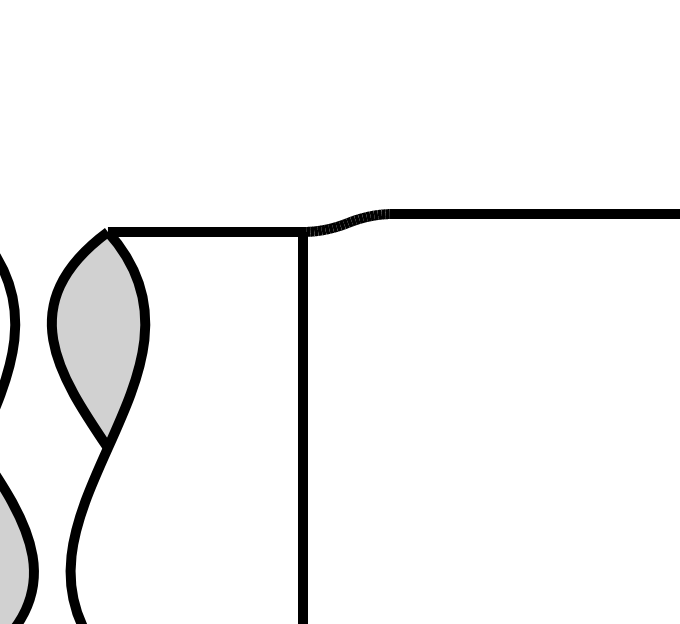
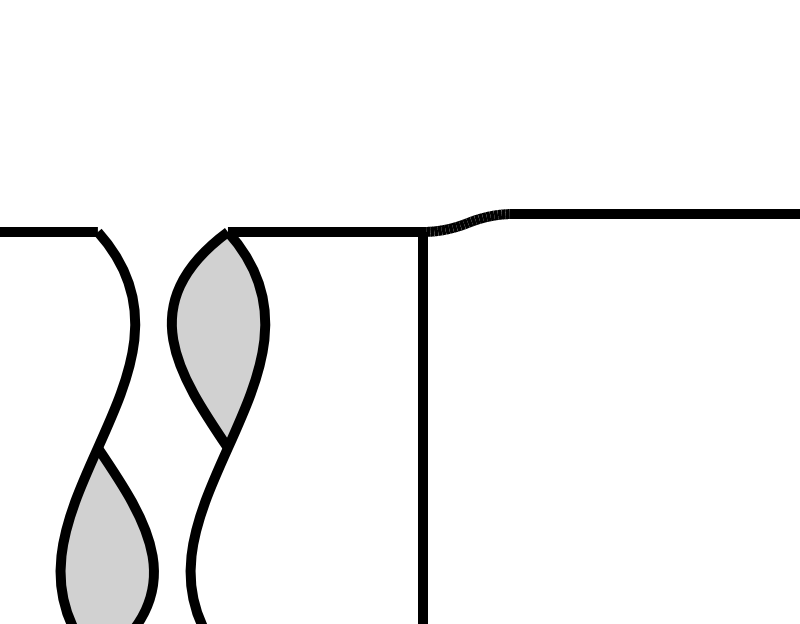
docs: drift sweep after the bug batch; manual chapters, Help and contracts aligned; bolt/S-break crops re-aimed
Every doc sentence the batch made stale is corrected (new-drawing unit,
taper-rate forms, label unification, filename scheme, bounds-warning unit,
bolt-row windows as the third S-break avoid source), plus pre-existing drift
found on the way (STYLE_GUIDE's per-keystroke OAL, the footer's taper-rate
row). The two feature crops that the bolt-row pin moved out of frame are
re-cut so the hidden bore and the whole S-break pair are in view.

Changed region(s): [[0.0, 0.3654, 0.3397, 1.0], [0.4324, 0.3349, 0.6485, 1.0]]

diff --git a/docs/manual/src/03-components.html b/docs/manual/src/03-components.html
@@ -40,7 +40,7 @@
       <tr><td><span class="ui">Length</span></td><td>Axial length of the taper. On a FWD-measured taper, a length change keeps the FWD end where it was and the taper grows toward AFT.</td></tr>
       <tr><td><span class="ui">S.E.T. Ø</span>, <span class="ui">L.E.T. Ø</span></td><td>Small-end and large-end diameters. On the card the two fields are listed in shaft order, AFT end first, so an aft-half taper shows S.E.T. then L.E.T., and a forward-half taper shows L.E.T. then S.E.T.</td></tr>
       <tr><td><span class="ui">Rate mode:</span> <span class="ui">Auto</span> | <span class="ui">Manual</span></td><td>Auto works the rate out from Length, S.E.T. and L.E.T. Manual lets you type it. Default Auto.</td></tr>
-      <tr><td><span class="ui">Rate (1:12, 3/4"/ft, or decimal)</span></td><td>The taper rate: a ratio (1:12), inches per foot (3/4"/ft — the shop's 1:16) or a decimal; a bare fraction like 3/4 is refused as ambiguous and the message names the forms to write. Greyed out in Auto, where it shows the computed rate. Editable in Manual.</td></tr>
+      <tr><td><span class="ui">Rate (1:12, 3/4"/ft, or decimal)</span></td><td>The taper rate: a ratio (1:12), inches per foot (3/4″/ft — the shop's 1:16; “3/4 in/ft” and “3/4/ft” are read the same way) or a decimal; a bare fraction like 3/4 is refused as ambiguous and the message names the forms to write. Greyed out in Auto, where it shows the computed rate. Editable in Manual.</td></tr>
       <tr><td><span class="ui">Keyway</span> checkbox and section</td><td>See <a href="#components-keyways">Keyways</a>.</td></tr>
     </tbody>
   </table>
@@ -52,7 +52,7 @@
     <li><strong>Manual</strong> keeps exactly what you type. If the typed rate disagrees with the three dimensions by more than 3%, the card shows <span class="ui">Rate does not match Length + SET + LET</span>. Nothing is changed; you decide which number is wrong.</li>
     <li>A plain whole number is read as 1:N, so “16” means 1:16. A bare “1” is refused as ambiguous.</li>
   </ul>
-  <aside class="warn"><p>Type rates as a ratio (“1:16”). A fraction such as “3/4” is read as a diameter change per unit of length, not as 3/4″ per foot, and gives a very steep taper. The shop notation 3/4″/ft is 1:16; 1″/ft is 1:12.</p></aside>
+  <aside class="warn"><p>Type rates as a ratio (“1:16”) or as inches per foot with the “/ft” written out (“3/4″/ft”). A bare fraction such as “3/4” is refused — it could mean 3/4″ per foot or a diameter change of 0.75 per unit of length, a very steep taper — and the card says <span class="ui">Write 3/4"/ft or a ratio like 1:16; a bare fraction is ambiguous</span>. The shop notation 3/4″/ft is 1:16; 1″/ft is 1:12.</p></aside>
 
   <h3>Adding a taper from S.E.T. and rate</h3>
   <ol class="steps">
@@ -185,7 +185,7 @@
       <tr><td><span class="ui">Explicit body</span> checkbox</td><td>Ticked on every explicit body. Unticking asks <span class="ui">Make body automatic?</span> and, on <span class="ui">Make automatic</span>, hands the span back to the auto fill (its keyway goes with it).</td></tr>
       <tr><td><span class="ui">Start</span></td><td>Distance from the AFT end of the shaft. Bodies have no Measure From chip.</td></tr>
       <tr><td><span class="ui">Length</span></td><td>Axial length.</td></tr>
-      <tr><td><span class="ui">Ø</span> (dialog: <span class="ui">Diameter</span>)</td><td>The body diameter.</td></tr>
+      <tr><td><span class="ui">Diameter</span></td><td>The body diameter.</td></tr>
       <tr><td><span class="ui">Face finish</span></td><td>Square or Blend at each end; see below.</td></tr>
       <tr><td><span class="ui">Seal areas</span></td><td>Grooved fiberglass seat areas at either end; see below.</td></tr>
       <tr><td><span class="ui">Keyway</span> checkbox and section</td><td>See <a href="#components-keyways">Keyways</a>.</td></tr>
@@ -195,7 +195,7 @@
   <aside class="note"><p>A body may run under a liner or up against a taper, and a body with a keyway is never split; see <a href="#editor-bodies">Bodies and bare shaft</a>.</p></aside>
 
   <h3>Bare-shaft card</h3>
-  <p>A bare-shaft card is titled <span class="ui">Body (auto)</span>. <span class="ui">Start</span> and <span class="ui">Length</span> are greyed out because the surrounding components decide them. <span class="ui">Ø</span> is editable and sets the diameter of that one stretch of bare shaft only. The card also carries <span class="ui">Show bare-shaft Ø on drawing</span>, the same <span class="ui">Face finish</span> and <span class="ui">Seal areas</span> controls as an explicit body, and the <span class="ui">Explicit body</span> checkbox that promotes it.</p>
+  <p>A bare-shaft card is titled <span class="ui">Body (auto)</span>. <span class="ui">Start</span> and <span class="ui">Length</span> are greyed out because the surrounding components decide them. <span class="ui">Diameter</span> is editable and sets the diameter of that one stretch of bare shaft only. The card also carries <span class="ui">Show bare-shaft Ø on drawing</span>, the same <span class="ui">Face finish</span> and <span class="ui">Seal areas</span> controls as an explicit body, and the <span class="ui">Explicit body</span> checkbox that promotes it.</p>
   <aside class="note"><p>Blends and seal areas set on an auto section belong to that stretch of bare shaft and follow it when the components around it move. Promoting the section starts the new explicit body with square faces and no seal areas; set them again on its card.</p></aside>
 
   <h3 id="components-blends">Face finish: Square or Blend</h3>
@@ -346,20 +346,22 @@
       <tr><td><span class="ui">Spacing</span></td><td>Shown when Count is more than 1: center-to-center distance between holes.</td></tr>
       <tr><td><span class="ui">Through hole</span> switch</td><td>On (default): a through hole. Off: a blind hole.</td></tr>
       <tr><td><span class="ui">Depth</span></td><td>Shown when the hole is blind: drill depth.</td></tr>
+      <tr><td><span class="ui">Show dimension rail</span> switch</td><td>Card only, off by default. On, the schematic and consolidated sheets print one dimension for the row: from the end of the shaft it is measured from to the center of the nearest hole, carrying the distance you entered. See <a href="#components-drawing-toggles">Per-component drawing switches</a>.</td></tr>
     </tbody>
   </table>
   <p>The Add dialog checks that every hole fits on the shaft and shows <span class="ui">Row extends past the AFT end of the shaft</span> or <span class="ui">Row extends past the end of the shaft</span> if one would not.</p>
 
   <h3>What prints for a bolt slot or hole</h3>
   <ul>
-    <li><strong>Seam</strong>: a circle at each hole position, straddling the shaft outline top and bottom. A seam row prints no numbers on the schematic.</li>
+    <li><strong>Seam</strong>: a circle at each hole position, straddling the shaft outline top and bottom. A seam row prints no footer line; the only number it can print is the rail dimension its <span class="ui">Show dimension rail</span> switch turns on.</li>
+    <li><strong>Either style</strong>: the row is never shortened on paper. Its holes keep their true spacing even inside a body that is compressed around them, and the body's S-break is placed clear of the row.</li>
     <li><strong>Cross-drilled, 90° from keyway</strong>: the bore drawn as hidden lines, two dashed walls one hole width apart running down from the top of the shaft, all the way through or, for a blind hole, to the drill depth with a dashed bottom.</li>
     <li><strong>Cross-drilled, in line with keyway</strong>: one circle on the shaft centerline at the hole position.</li>
     <li><strong>Cross-drilled footer lines</strong>, in the column of the end it was measured from: “Bolt hole: Ø &lt;dia&gt;” (with “× &lt;count&gt;” for more than one), “Hole center from FWD:” or “Hole center from AFT:” with the distance (and “@ &lt;spacing&gt;” for more than one), and, when the shaft has a keyway, “90° from keyway” or “In line with keyway”.</li>
   </ul>
   <figure class="detail">
-    <img src="figures/feature-bolt-holes.png" alt="Close-up of the schematic showing circles straddling the shaft outline for seam bolt slots, and dashed parallel lines through the shaft for a cross-drilled hole.">
-    <figcaption>Seam bolt slots straddle the outline; a cross-drilled hole clocked 90° from the keyway draws as a hidden bore.</figcaption>
+    <img src="figures/feature-bolt-holes.png" alt="Close-up of the coupling end of the schematic: two dashed lines through the shaft for a cross-drilled hole, then a row of three circles straddling the top outline with the matching row on the bottom outline.">
+    <figcaption>A cross-drilled hole clocked 90° from the keyway draws as a hidden bore (the two dashed lines); a seam bolt row draws as circles straddling the outline, one per bolt at its spacing.</figcaption>
   </figure>
   <aside class="shop"><p>The hole-center distance in the footer is measured from the shaft end named on the line to the center of the hole. On the runout sheet's coupling end view, the bolt count comes from the first seam row; a cross-drilled hole is not a flange bolt and is not counted there.</p></aside>
 
@@ -374,6 +376,7 @@
       <tr><td><span class="ui">Show name on drawing</span></td><td>Explicit bodies, tapers, threads, liners</td><td>Follows <span class="ui">Show component titles in PDF</span></td></tr>
       <tr><td><span class="ui">Compress on drawing</span></td><td>Explicit bodies</td><td>Off for new bodies</td></tr>
       <tr><td><span class="ui">Prints in:</span> <span class="ui">in</span> | <span class="ui">mm</span></td><td>Explicit bodies, tapers, threads, liners</td><td>The document unit</td></tr>
+      <tr><td><span class="ui">Show dimension rail</span></td><td>Coupler bolt slots and holes</td><td>Off</td></tr>
     </tbody>
   </table>
 
@@ -406,6 +409,7 @@
   <h3 id="components-prints-in">Prints in: in | mm</h3>
   <p>Prints this one component's values in a different unit from the document. It appears at the foot of the card only when <span class="path">Settings → Drawing → Per-component units</span> is on. It changes how the component prints, not how you type it: the card's fields stay in the document unit. Tapping the document's own unit clears the choice.</p>
   <p>A keyway has its own <span class="ui">Keyway in:</span> chip, which does change the unit you type the keyway in, because a metric keyway on an inch shaft should be entered in millimeters. That chip is in the Add dialogs as well as on the cards. A metric thread prints in millimeters without any chip.</p>
+  <p><span class="ui">Show dimension rail</span> is on coupler bolt slot and hole cards only. Off, the row prints no dimension; on, the schematic and consolidated sheets add one dimension rail from the end of the shaft the row is measured from (<span class="ui">Measure From</span>) to the center of the nearest hole, carrying the distance you entered. It changes nothing about the row itself, which is why it is not in the Add dialog. See <a href="#reading-bolts">Coupler bolt holes</a>.</p>
 
   <h2 id="components-names">Component names</h2>
   <p>Every taper, thread, liner and explicit body has a name. Until you give it one, the app names it by position:</p>

diff --git a/docs/manual/src/04-documents.html b/docs/manual/src/04-documents.html
@@ -268,23 +268,23 @@
   <aside class="note"><p>If something goes wrong while the sheet is being drawn, the app still writes a valid PDF that shows a “PDF export failed” page instead of a damaged or empty file. Re-export after fixing the cause.</p></aside>
 
   <h3>File names</h3>
-  <p>The suggested name is built from the job information (Customer, Vessel, Job #) and the shaft side. A side of PORT, STBD or CENTER is added; Other adds nothing. Blank job fields are skipped.</p>
+  <p>Every document's name starts from the same base as the saved job: Job #, Customer and Vessel joined by “ - ”, then the shaft side. A side of PORT, STBD or CENTER is added; Other adds nothing. Blank job fields are skipped, and a character a file name cannot hold (such as / or :) becomes an underscore. Each document then adds its own ending.</p>
   <table class="ref">
     <thead><tr><th>Document</th><th>Suggested filename (example: Job 814201, NorthSound Marine, FV Tern Point, PORT)</th></tr></thead>
     <tbody>
-      <tr><td>Schematic (Schematic tab)</td><td>814201 - NorthSound Marine - FV Tern Point - PORT.pdf<br>No job information at all: Shaft_&lt;date&gt;_&lt;time&gt;.pdf</td></tr>
+      <tr><td>Schematic (Schematic tab, and the same file from <span class="ui">Export all</span>)</td><td>814201 - NorthSound Marine - FV Tern Point - PORT_schematic.pdf</td></tr>
+      <tr><td>Runout Sheet</td><td>…PORT_runout.pdf</td></tr>
+      <tr><td>Wear Document</td><td>…PORT_wear.pdf</td></tr>
+      <tr><td>Undercut Drawing</td><td>…PORT_undercuts.pdf</td></tr>
+      <tr><td>Consolidated Sheet</td><td>…PORT_consolidated.pdf</td></tr>
       <tr><td>Final schematic</td><td>…PORT_Final.pdf</td></tr>
       <tr><td>Final schematic with Runout bubbles</td><td>…PORT_Final_Runout.pdf</td></tr>
       <tr><td>Final runout sheet (Final banner)</td><td>…PORT_Final_RunoutSheet.pdf</td></tr>
-      <tr><td>Runout Sheet</td><td>NorthSound Marine_FV Tern Point_814201_PORT_runout.pdf</td></tr>
-      <tr><td>Wear Document</td><td>…_PORT_wear.pdf</td></tr>
-      <tr><td>Undercut Drawing</td><td>…_PORT_undercuts.pdf</td></tr>
-      <tr><td>Consolidated Sheet</td><td>…_PORT_consolidated.pdf</td></tr>
-      <tr><td>Schematic written by <span class="ui">Export all</span></td><td>…_PORT_schematic.pdf</td></tr>
-      <tr><td>Any blank draft</td><td>adds _BlankDraft at the end, for example …_Final_BlankDraft.pdf</td></tr>
+      <tr><td>Any blank draft</td><td>adds _BlankDraft at the end, for example …PORT_runout_BlankDraft.pdf</td></tr>
+      <tr><td>No job information at all</td><td>Shaft_schematic.pdf, Shaft_runout.pdf and so on; the Final documents use Shaft_&lt;date&gt;_&lt;time&gt;_Final.pdf</td></tr>
     </tbody>
   </table>
-  <p>The three Final names are deliberately different, so the welding copy, the pre-ship measurement sheet and the blank final runout sheet never overwrite each other. The side is part of every name, so the PORT and STBD shafts of a twin-screw job don't overwrite each other either.</p>
+  <p>The schematic gets the same name whether it is exported from its own tab or by <span class="ui">Export all</span>. The three Final names are deliberately different, so the welding copy, the pre-ship measurement sheet and the blank final runout sheet never overwrite each other. The side is part of every name, so the PORT and STBD shafts of a twin-screw job don't overwrite each other either.</p>
 
   <h3 id="documents-blocked">Why Print and Export are greyed out</h3>
   <p>Printing and exporting are blocked until the drawing can be trusted. The tab shows the reason in red above the buttons. On the Schematic tab, tapping the greyed <span class="ui">PDF preview</span> icon shows it as a message.</p>
@@ -354,7 +354,7 @@
   <ul>
     <li><strong>Bare shaft always compresses.</strong> Auto (bare-shaft) sections are what gives up length first.</li>
     <li><strong>Explicit bodies start uncompressed.</strong> A body you add draws at true proportion, with no S-break. To let a very long explicit body compress, tick <span class="ui">Compress on drawing</span> on its card (see <a href="#components-compress">Compress on drawing</a>). Bodies in older saved jobs keep compressing until you untick it.</li>
-    <li><strong>Keyways stay true size.</strong> The stretch of a body around its keyway never shortens, and the break is placed clear of it. The keyway's width scales with the drawn height, so it stays in proportion at any height.</li>
+    <li><strong>Keyways and bolt rows stay true size.</strong> The stretch of a body around its keyway, or around a row of coupler bolt holes, never shortens, and the break is placed clear of it. The keyway's width scales with the drawn height, so it stays in proportion at any height; the bolt holes keep their true spacing.</li>
   </ul>
 
   <h3>Liners and tapers keep their proportions</h3>

diff --git a/docs/manual/src/02-editor.html b/docs/manual/src/02-editor.html
@@ -24,7 +24,7 @@
   <ol class="steps">
     <li>Tap <span class="ui">New Drawing</span>.</li>
     <li>Tap <span class="ui">Project information</span> on the toolbar and fill in the job details.</li>
-    <li>Check the unit (inches for a new drawing; see <a href="#editor-units">Units for the job</a>).</li>
+    <li>Check the unit (a new drawing takes the one set under <span class="path">Settings → Units</span>; see <a href="#editor-units">Units for the job</a>).</li>
     <li>Type the <span class="ui">Overall Length</span> and tap the green ✓.</li>
     <li>Add the components with <span class="ui">+ Add Component</span>, AFT end first is easiest.</li>
     <li>Tap <span class="ui">Save</span> and confirm the suggested name.</li>
@@ -52,7 +52,7 @@
   <p>Unsaved drafts on the home screen are listed by the name the job would be saved under, so three drafts are told apart by job, not just by age. A draft with no project information shows as <span class="ui">Untitled draft</span>.</p>
 
   <h3 id="editor-units">Units for the job</h3>
-  <p>A new drawing starts in inches. To draw in millimeters, open <span class="path">Settings → Units</span> and choose <span class="ui">Millimeters</span>. The job remembers its unit, so it reopens the way it was drawn. Inch fields accept fractions: type “3 1/2” or “150 3/4”.</p>
+  <p>A new drawing starts in the unit chosen under <span class="path">Settings → Units</span> (<span class="ui">Millimeters</span> or <span class="ui">Inches</span>), so set it once for the shop and every new drawing follows it. The job remembers its unit from then on: it reopens the way it was drawn, and changing the setting later never flips an open or saved job. While a job is open, the same chips switch how it is shown and typed. Inch fields accept fractions: type “3 1/2” or “150 3/4”.</p>
   <p>Switching units never changes a dimension (see <a href="#intro-units">Millimeters and inches</a>). To print one component in the other unit (a metric thread on an inch shaft), see <a href="#components-prints-in">Prints in: in | mm</a>.</p>
 
   <h2 id="editor-oal">The overall length</h2>
@@ -160,7 +160,7 @@
   <p>Every stretch of the shaft you have not covered with a component is drawn as bare shaft, so the drawing is always one continuous piece. Bare shaft is filled in automatically and shows in the carousel as a <span class="ui">Body (auto)</span> card. You never need to add bodies just to join components together.</p>
 
   <h3>Setting a bare-shaft diameter</h3>
-  <p>On a <span class="ui">Body (auto)</span> card, <span class="ui">Start</span> and <span class="ui">Length</span> are greyed: they come from the components on either side. The <span class="ui">Ø</span> field is live. Type a diameter to set that section of bare shaft. Each section takes its own diameter, so a shaft can step between liners without a single explicit body. Clear the field, or enter 0, to let that section take its diameter from its neighbors again.</p>
+  <p>On a <span class="ui">Body (auto)</span> card, <span class="ui">Start</span> and <span class="ui">Length</span> are greyed: they come from the components on either side. The <span class="ui">Diameter</span> field is live. Type a diameter to set that section of bare shaft. Each section takes its own diameter, so a shaft can step between liners without a single explicit body. Clear the field, or enter 0, to let that section take its diameter from its neighbors again.</p>
   <p>If two sections with different diameters are joined (because the component between them was deleted), the joined section takes the AFT section's diameter. The FWD section's diameter is kept in reserve and comes back if the two are split again.</p>
   <p>The auto card also carries <span class="ui">Show bare-shaft Ø on drawing</span> (one switch for all bare shaft) and the face finish and seal area controls; see <a href="#components-bodies">Bodies</a>.</p>
 

diff --git a/docs/manual/src/05-reading.html b/docs/manual/src/05-reading.html
@@ -84,6 +84,7 @@
     <li><strong>The rails below carry the liners and the end tapers.</strong> Each end taper gets its length. Each liner gets two dimensions: a datum dimension locating it, and its length (see the next section).</li>
     <li><strong>Shorter dimensions sit lower.</strong> A dimension that sits inside a longer one takes the rail below it. On the tailshaft, the 14″ AFT taper sits under the 22″ datum that contains it, and the 22″ sits under the OAL.</li>
     <li><strong>Bodies and bare shaft carry no rail dimension.</strong> Their length is whatever the liners and tapers leave between them.</li>
+    <li><strong>A coupler bolt row can add one.</strong> When the row's card has <span class="ui">Show dimension rail</span> on, a rail runs from the end of the shaft the row is measured from to the center of its nearest hole, carrying the entered distance. Off, the usual case, the row prints no dimension.</li>
   </ul>
   <p>How a dimension is drawn:</p>
   <ul>
@@ -124,7 +125,7 @@
     <thead><tr><th>Line</th><th>What it means</th></tr></thead>
     <tbody>
       <tr><td>“AFT Taper” / “FWD Taper”</td><td>Column heading. A shaft end without a taper has no heading.</td></tr>
-      <tr><td>“Rate:”</td><td>The taper. A 1:12 taper prints as “1″/ft” and a 1:16 taper as “3/4″/ft”; any other taper prints as a ratio.</td></tr>
+      <tr><td>“Rate:”</td><td>The taper. On inch sheets a 1:12 taper prints as “1″/ft” and a 1:16 taper as “3/4″/ft”; any other rate prints as it was typed (a taper left in Auto prints its computed ratio).</td></tr>
       <tr><td>“L.E.T.:”</td><td>Diameter at the large end of the taper.</td></tr>
       <tr><td>“S.E.T.:”</td><td>Diameter at the small end of the taper.</td></tr>
       <tr><td>“Length:”</td><td>Taper length.</td></tr>
@@ -227,8 +228,8 @@
 
   <h3 id="reading-bolts">Coupler bolt holes</h3>
   <figure class="detail">
-    <img src="figures/feature-bolt-holes.png" alt="Close-up of the coupling end: two dashed vertical lines across the shaft, and a row of three circles straddling the top outline and three straddling the bottom outline.">
-    <figcaption>A cross-drilled hole drawn hidden (the two dashed lines) and a seam bolt row (the circles on the outline).</figcaption>
+    <img src="figures/feature-bolt-holes.png" alt="Close-up of the coupling end: two dashed vertical lines across the shaft, then a row of three circles straddling the top outline and three straddling the bottom outline.">
+    <figcaption>A cross-drilled hole drawn hidden (the two dashed lines) and, FWD of it, a seam bolt row (the circles on the outline, one per bolt).</figcaption>
   </figure>
   <dl class="terms">
     <dt>Seam holes (muff coupling)</dt>

diff --git a/docs/manual/src/01-intro.html b/docs/manual/src/01-intro.html
@@ -69,7 +69,7 @@
   <p>A value you type into a component is kept <strong>exactly as entered</strong>. The app never rounds it, snaps it to a neighboring edge, or “corrects” it — not even by a thousandth. If you type 14.062″, the sheet prints 14.062″. What moves to make room is the bare shaft between components, never your numbers. This is what lets a machinist trust the paper: every dimension on it is one somebody deliberately entered.</p>
 
   <h3 id="intro-units">Millimeters and inches</h3>
-  <p>A new drawing starts in inches; choose the unit under <span class="path">Settings → Units</span> (<span class="ui">Millimeters</span> or <span class="ui">Inches</span>). The unit governs how values are shown and typed; it never changes a stored value. Switch from inches to millimeters and back, and every dimension comes back exactly as it was. Inch fields accept fractions as well as decimals — type 3 1/2, 7/8 or 3.5. On the printed sheets, fractions are set as true fractions (diagonal by default) rather than spelled out.</p>
+  <p>Every new drawing starts in the unit chosen under <span class="path">Settings → Units</span> (<span class="ui">Millimeters</span> or <span class="ui">Inches</span>): a metric shop sets millimeters once and each new drawing is metric. The unit governs how values are shown and typed; it never changes a stored value. Switch from inches to millimeters and back, and every dimension comes back exactly as it was. Inch fields accept fractions as well as decimals — type 3 1/2, 7/8 or 3.5. On the printed sheets, fractions are set as true fractions (diagonal by default) rather than spelled out.</p>
   <p>A shaft can also mix units — a metric thread and keyway on an otherwise imperial shaft, for instance — and print both units side by side. Those options are switched on in Settings; see <a href="#settings-capabilities">Switches that reveal extra controls</a>.</p>
 
   <h3 id="intro-reference">Reference marks never change the shaft</h3>

diff --git a/docs/manual/src/07-settings.html b/docs/manual/src/07-settings.html
@@ -14,11 +14,11 @@
   <p>A slider in Settings saves when you let go of it, not while you drag. Chips and switches save the moment you tap them. Each slider has a <span class="ui">Default (…)</span> or <span class="ui">Standard (…)</span> button beside its title; the button greys out while the setting is already at its default.</p>
 
   <h2 id="settings-units">Units</h2>
-  <p><span class="path">Settings → Units</span> — sets how values are shown and typed in the open document.</p>
+  <p><span class="path">Settings → Units</span> — the unit every new drawing starts in, and how values are shown and typed in the open document.</p>
   <table class="ref">
     <thead><tr><th>Setting</th><th>Default</th><th>What it does</th></tr></thead>
     <tbody>
-      <tr><td><span class="ui">Millimeters</span> | <span class="ui">Inches</span></td><td>Inches for a new shaft</td><td>Every field, badge, drawing and printed sheet shows values in the chosen unit. Inch fields accept fractions such as 3 1/2. The choice is saved with the document, so a shaft reopens in the unit it was drawn in.</td></tr>
+      <tr><td><span class="ui">Millimeters</span> | <span class="ui">Inches</span></td><td>Millimeters</td><td>Every new drawing starts in this unit, so a metric shop sets it once. While a drawing is open the chips also switch it: every field, badge, drawing and printed sheet shows values in the chosen unit. Inch fields accept fractions such as 3 1/2. The choice is saved with the document, so a shaft reopens in the unit it was drawn in, and changing the setting later never flips a saved job.</td></tr>
     </tbody>
   </table>
   <aside class="note"><p>Switching units never changes a number; see <a href="#intro-units">Millimeters and inches</a>.</p></aside>

diff --git a/docs/manual/src/08-help.html b/docs/manual/src/08-help.html
@@ -63,7 +63,7 @@
   <p>Both are switched off by default, because most shafts never need them. Switch on <span class="path">Settings → Drawing → Liner shoulders</span> or <span class="path">Settings → Drawing → Per-component units</span> (see <a href="#settings-capabilities">Switches that reveal extra controls</a>). A liner that already carries shoulder values always shows and draws them, whatever the setting.</p>
 
   <h3>I opened a shaft and the units changed</h3>
-  <p>A saved shaft remembers the unit it was saved in and opens in that unit. Switching units never changes your numbers: the app stores every value the same way and only changes how it is shown. Use <span class="path">Settings → Units</span> to switch between <span class="ui">Millimeters</span> and <span class="ui">Inches</span>.</p>
+  <p>A saved shaft remembers the unit it was saved in and opens in that unit, whatever <span class="path">Settings → Units</span> says now; that setting decides the unit a new drawing starts in. Switching units never changes your numbers: the app stores every value the same way and only changes how it is shown. Use <span class="path">Settings → Units</span> to switch between <span class="ui">Millimeters</span> and <span class="ui">Inches</span>.</p>
 
   <!-- ───────────────────────────── DRAWINGS & PDFs ───────────────────────────── -->
   <h2 id="help-drawings">Troubleshooting: drawings, printing &amp; PDFs</h2>

diff --git a/docs/manual/src/06-recording.html b/docs/manual/src/06-recording.html
@@ -35,7 +35,7 @@
   <ul>
     <li>Every entry field takes the job's unit (inches or millimeters), shown in the field label — for example <span class="ui">Length (in)</span>.</li>
     <li>Wear, undercut and worn-section fields accept decimals or fractions: <span class="ui">5.748</span>, <span class="ui">3 1/2</span> and <span class="ui">7/8</span> all work.</li>
-    <li>Type TIR readings as decimals (<span class="ui">.002</span>). The bubble prints thousandths with the leading zero dropped, the way a TIR is hand-written: .010, .002.</li>
+    <li>TIR readings take a decimal (<span class="ui">.002</span>) or a fraction (<span class="ui">1/64</span>); <span class="ui">Save</span> stays greyed while the field holds something that does not read as a number, so nothing typed is lost. The bubble prints thousandths with the leading zero dropped, the way a TIR is hand-written: .010, .002.</li>
     <li>What you type is stored exactly as typed. A value that looks wrong is shown with a warning, never changed.</li>
   </ul>
 

diff --git a/app/src/test/java/com/android/shaftschematic/manual/ManualFiguresTest.kt b/app/src/test/java/com/android/shaftschematic/manual/ManualFiguresTest.kt
@@ -406,10 +406,10 @@ class ManualFiguresTest {
         crop(features, "feature-keyway-spooned.png", 52f, 240f, 146f, 318f, CROP_SCALE)
         crop(features, "feature-thread-relief.png", 24f, 240f, 100f, 318f, CROP_SCALE)
         crop(features, "feature-liner-shoulder.png", 168f, 235f, 243f, 322f, CROP_SCALE)
-        crop(features, "feature-sbreak.png", 235f, 240f, 320f, 318f, CROP_SCALE)
+        crop(features, "feature-sbreak.png", 220f, 240f, 320f, 318f, CROP_SCALE)
         crop(features, "feature-blend-seal.png", 310f, 240f, 430f, 352f, CROP_SCALE)
         crop(features, "feature-keyway-captured.png", 508f, 240f, 622f, 318f, CROP_SCALE)
-        crop(features, "feature-bolt-holes.png", 625f, 236f, 764f, 322f, CROP_SCALE)
+        crop(features, "feature-bolt-holes.png", 590f, 232f, 764f, 332f, CROP_SCALE)
     }
 
     private companion object {

diff --git a/app/src/main/java/com/android/shaftschematic/ui/screen/HelpRoute.kt b/app/src/main/java/com/android/shaftschematic/ui/screen/HelpRoute.kt
@@ -286,7 +286,8 @@ internal val helpSections: List<HelpSection> = listOf(
             ),
             HelpTopic(
                 "Millimeters and inches",
-                "Settings → Units picks how values are displayed and typed. Internally every " +
+                "Settings → Units picks the unit every new drawing starts in, and how the open " +
+                    "drawing's values are displayed and typed. Internally every " +
                     "value is stored in millimeters, so switching units never changes your " +
                     "numbers — it only changes how they are shown. Inch fields accept " +
                     "fractions like 3 1/2."

diff --git a/docs/STYLE_GUIDE.md b/docs/STYLE_GUIDE.md
@@ -41,11 +41,12 @@ This document defines the conventions for Kotlin, Compose, architectural boundar
 - UI must NEVER perform geometry or px-per-mm math.
 - Use `collectAsState()` for StateFlow observations.
 - Numeric fields use one of **two** commit strategies, not one. Carousel / edit-card fields
-  (`NumericInputField`) commit **on blur or Done**, and only when the value changed since
-  focus was gained. Add-dialog fields (`CommitNumField`, `ui/screen/AddComponentDialogs.kt`)
-  and the OAL field commit on **every parseable keystroke** — a dialog's Add button can be
-  tapped while a field is still focused, before any blur fires, and the OAL field updates the
-  preview live. See `docs/UI_CONTRACT.md` §2.1 and `docs/contracts/NumberField.md`.
+  (`NumericInputField`) and the OAL field commit **on accept** — blur or Done (the OAL field
+  also its ✓), and only when the value changed since focus was gained; never per keystroke.
+  Add-dialog fields (`CommitNumField`, `ui/screen/AddComponentDialogs.kt`) commit on **every
+  parseable keystroke** — a dialog's Add button can be tapped while a field is still focused,
+  before any blur fires. See `docs/UI_CONTRACT.md` §2.1, `docs/contracts/NumberField.md` and
+  `docs/contracts/OverallLength.md`.
 - Use local state (`remember`) only for editing buffers.
 
 ### File Placement

diff --git a/CHANGELOG.md b/CHANGELOG.md
@@ -57,8 +57,10 @@ batch is what that turned up. Product calls it raised but did not settle are in 
   comment (per-keystroke OAL, a header unit selector) rewritten.
 - Docs: CLAUDE.md rules for the pin classes, bolt windows, the slot rail, the footer line and
   the filename builder; contracts (CouplerBoltSlot, AddComponentDialogs, TaperRate,
-  Persistence, ShaftViewModel, RunoutSheet, FinalSchematic), PDF_EXPORT, DATA_MODEL,
-  VALIDATION_RULES, GLOSSARY, the manual sources and Help; figures regenerated.
+  Persistence, ShaftViewModel, ShaftScreen, RunoutSheet, Navigation), PDF_EXPORT, DATA_MODEL,
+  COMPONENT_CONTRACT, VALIDATION_RULES, STYLE_GUIDE, GLOSSARY, ROADMAP, the manual sources
+  (the coupler slot's "Show dimension rail" is now documented, the file-name table follows the
+  one builder, Units/TIR/taper-rate wording) and Help; figures regenerated.
   Tests: +54 (2718 green).
 
 ### docs(manual): printed User Manual + stale Help topics corrected
